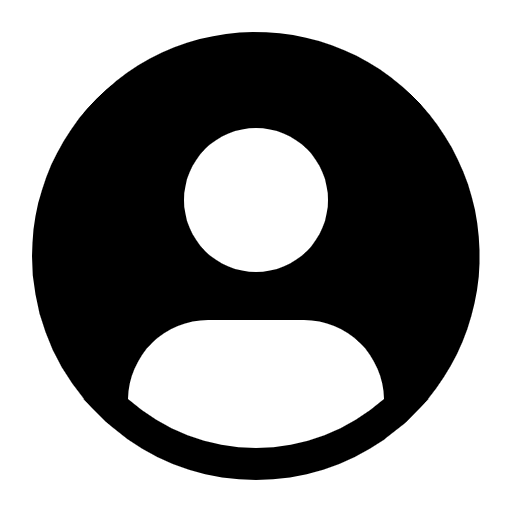
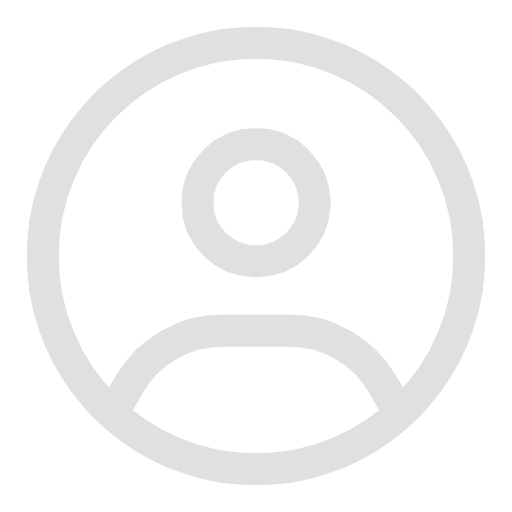
update

diff --git a/src/components/ChatList/ChatList.vue b/src/components/ChatList/ChatList.vue
@@ -340,7 +340,7 @@ function handleCloseImage() {
             <div class="message-column">
               <div class="chat-message" :class="getMessageClass(message.senderRole)">
                 <div class="message-avatar">
-                  <el-avatar :size="38" :src="message.senderRole === 'assistant' ? avatar : message.avatar" />
+                  <el-avatar :size="38" style="background-color: #f5f5f5;" :src="message.senderRole === 'assistant' ? avatar : message.avatar" />
                 </div>
                 <div class="message-content">
                   <div class="message-header">
